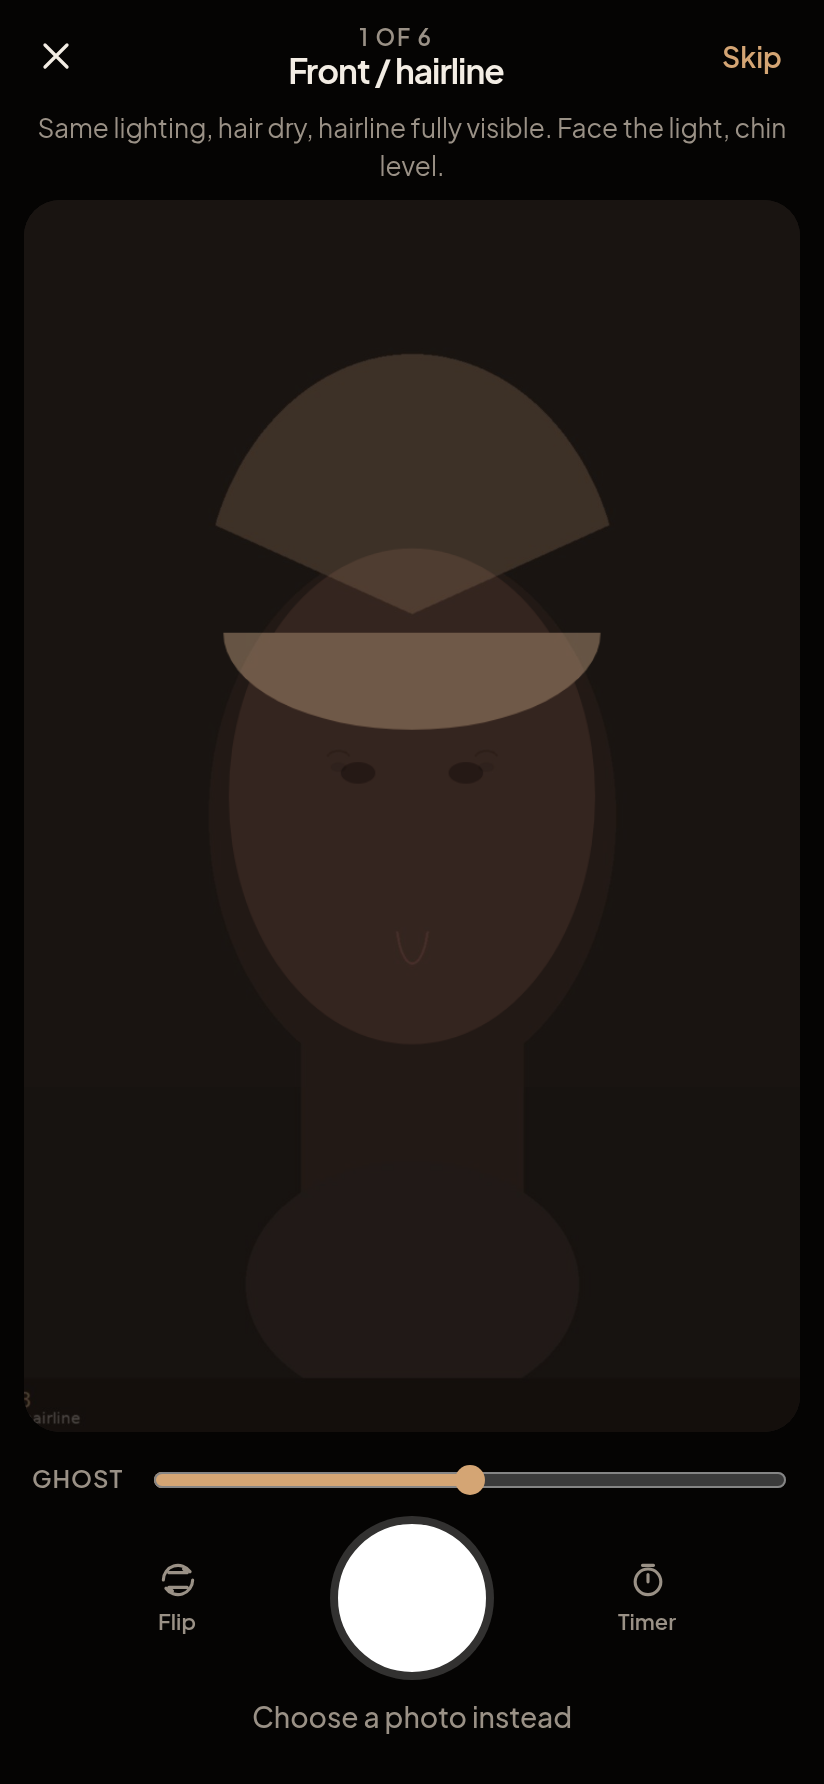
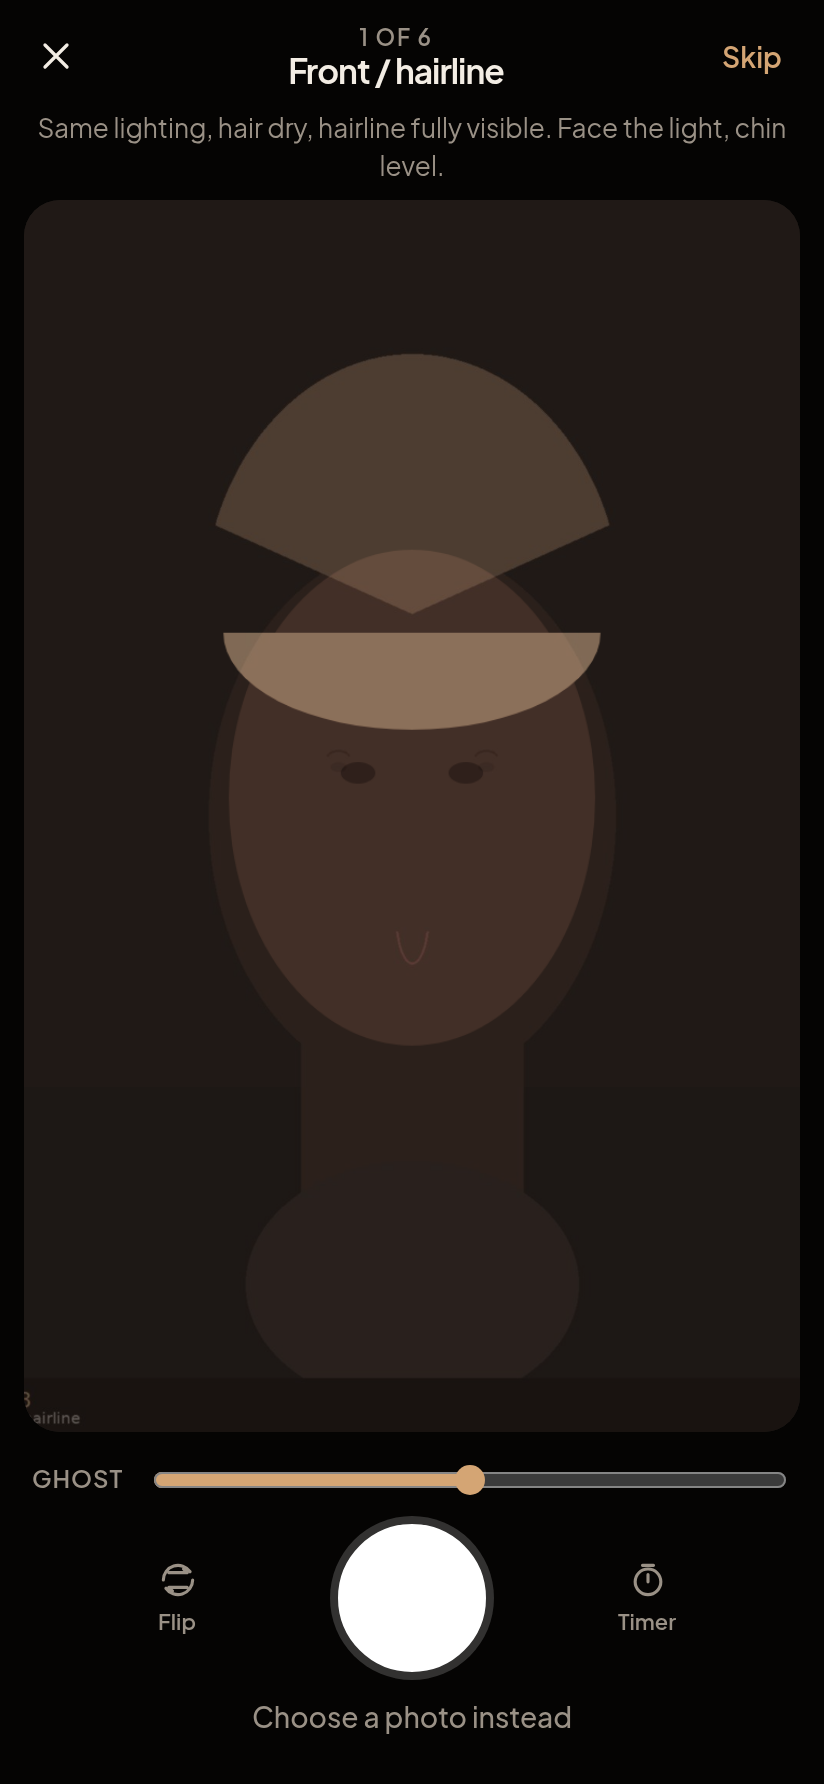
Fix capture preview so each angle shows a live camera
After saving or skipping an angle, the review still stayed on screen
and the camera stream was not fully released before the next facing
mode opened, so Android Chrome froze on the first photo. Hide the
freeze-frame, restart getUserMedia, and restore ghost/guide on every
angle and on retake. Bump the service worker cache and reload on
controllerchange so installed phones pick up the fix.

Changed region(s): [[0.2731, 0.3391, 0.7282, 0.4316]]

diff --git a/js/app.js b/js/app.js
@@ -438,11 +438,24 @@ async function setupGhostAndGuide() {
   }
 }
 
+function streamIsLive(stream) {
+  return !!stream && stream.getVideoTracks().some((t) => t.readyState === "live");
+}
+
+function delay(ms) {
+  return new Promise((resolve) => setTimeout(resolve, ms));
+}
+
 async function startCamera() {
   const video = $("#camera");
   const fallback = $("#camera-fallback");
   fallback.hidden = true;
-  await stopCamera(false);
+  // Fully release the previous stream (including srcObject) before opening
+  // a new one. Android Chrome often keeps showing the last frame — and can
+  // refuse a front/rear switch — if the old tracks are stopped but still
+  // attached to the <video> element.
+  await stopCamera(true, { releaseLock: false });
+  await delay(50);
   const constraints = {
     audio: false,
     video: {
@@ -453,12 +466,18 @@ async function startCamera() {
   };
   try {
     if (!navigator.mediaDevices?.getUserMedia) throw new Error("no mediaDevices");
-    state.stream = await navigator.mediaDevices.getUserMedia(constraints);
-    video.srcObject = state.stream;
-    await video.play().catch(() => {});
+    const stream = await navigator.mediaDevices.getUserMedia(constraints);
+    state.stream = stream;
+    video.srcObject = stream;
     video.classList.toggle("is-front", state.facingMode === "user");
     video.hidden = false;
     fallback.hidden = true;
+    try {
+      await video.play();
+    } catch {
+      await delay(50);
+      await video.play();
+    }
   } catch (err) {
     console.warn("Camera unavailable:", err);
     video.hidden = true;
@@ -466,8 +485,8 @@ async function startCamera() {
   }
 }
 
-async function stopCamera(clearVideo = true) {
-  releaseWakeLock();
+async function stopCamera(clearVideo = true, { releaseLock = true } = {}) {
+  if (releaseLock) releaseWakeLock();
   if (state.countdown) {
     clearInterval(state.countdown);
     state.countdown = null;
@@ -481,6 +500,23 @@ async function stopCamera(clearVideo = true) {
     const video = $("#camera");
     video.srcObject = null;
   }
+}
+
+/** Hide the review still and make sure the live preview is playing. */
+async function ensureLivePreview({ restart = false } = {}) {
+  hideReview();
+  const video = $("#camera");
+  const live = !restart && streamIsLive(state.stream) && video.srcObject === state.stream;
+  if (live) {
+    video.hidden = false;
+    try {
+      await video.play();
+    } catch {
+      await startCamera();
+    }
+    return;
+  }
+  await startCamera();
 }
 
 async function flipCamera() {
@@ -566,7 +602,12 @@ async function enterReview(blob, { mirrored = false } = {}) {
 function hideReview() {
   state.reviewing = false;
   state.reviewBlob = null;
-  $("#freeze-canvas").hidden = true;
+  const canvas = $("#freeze-canvas");
+  canvas.hidden = true;
+  const ctx = canvas.getContext("2d");
+  if (ctx) ctx.clearRect(0, 0, canvas.width, canvas.height);
+  canvas.width = 1;
+  canvas.height = 1;
   $("#review-bar").hidden = true;
   $(".capture-dock").hidden = false;
   $("#btn-skip").hidden = false;
@@ -585,7 +626,6 @@ async function keepPhoto() {
       height: compressed.height,
     });
     toast(`${angle.short} saved`);
-    hideReview();
     await gotoNextAngle();
   } catch (err) {
     console.error(err);
@@ -594,7 +634,8 @@ async function keepPhoto() {
 }
 
 async function retake() {
-  hideReview();
+  // Stay on this angle: drop the still and resume the live preview.
+  await ensureLivePreview();
 }
 
 async function skipAngle() {
@@ -603,13 +644,17 @@ async function skipAngle() {
 }
 
 async function gotoNextAngle() {
+  hideReview();
   if (state.captureIndex < ANGLES.length - 1) {
     state.captureIndex += 1;
     const angle = ANGLES[state.captureIndex];
     state.facingMode = angle.facing || "environment";
     renderCaptureChrome();
     await setupGhostAndGuide();
+    // Always restart the stream so a stopped or front/rear-switched camera
+    // comes back as a live preview, not the previous still frame.
     await startCamera();
+    requestWakeLock();
   } else {
     await stopCamera();
     navigate("#/complete");
@@ -905,6 +950,17 @@ function registerSW() {
   navigator.serviceWorker.register(swUrl.href).catch((err) => {
     console.warn("SW registration failed:", err);
   });
+  // Reload once when a new worker takes control so the phone picks up the
+  // bumped cache. Only listen if a worker already controls this page, so
+  // the first install doesn't reload immediately after clients.claim().
+  if (navigator.serviceWorker.controller) {
+    let refreshing = false;
+    navigator.serviceWorker.addEventListener("controllerchange", () => {
+      if (refreshing) return;
+      refreshing = true;
+      location.reload();
+    });
+  }
 }
 
 /* ---------- events ---------- */

diff --git a/css/styles.css b/css/styles.css
@@ -54,6 +54,9 @@ body {
 }
 
 img, video, canvas { max-width: 100%; display: block; }
+/* Author display:block above must not override the hidden attribute,
+   especially the review freeze-frame canvas sitting over the live video. */
+[hidden] { display: none !important; }
 button, select, textarea, input { font: inherit; color: inherit; }
 button { cursor: pointer; }
 a { color: inherit; }

diff --git a/sw.js b/sw.js
@@ -1,5 +1,5 @@
 /* Hair Track service worker — cache the app shell for offline use. */
-const CACHE = "hair-track-v1";
+const CACHE = "hair-track-v2";
 const ASSETS = [
   "./",
   "./index.html",
